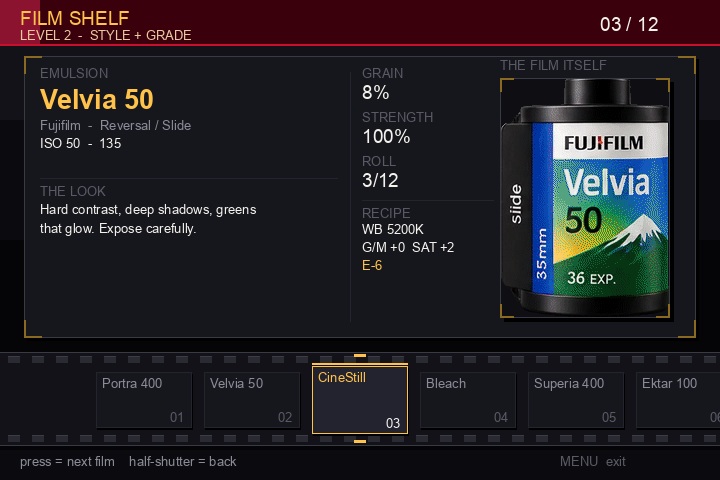
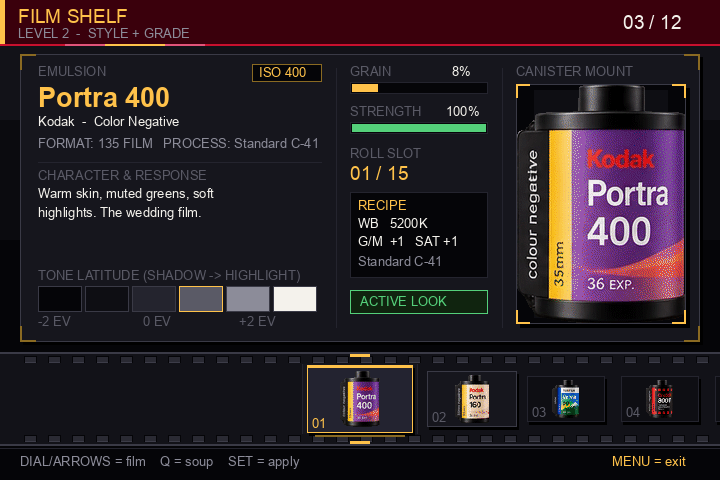
README: the real screens, and a GIF of the real glide
The promo mockups are gone. Every screen in this README is now rendered by the
module's own drawing code through fsg_fill/fsg_text, and the animation is
gui/fs_spring.h stepped for three slots of travel -- 23 frames at 30 ms, the
same clock the panel repaints on.

New sections cover the twelve-wedge colour creator (saturation/hue/luminance per
wedge, WHEEL..WHEEL4 slots, self-contained .fs), the FX/tone/WB screens, 65:24
XPan, and a Fuji recipe field by field with the ranges Fuji uses and the three
fields that are deliberately absent.

diff --git a/README.md b/README.md
@@ -1,6 +1,6 @@
 # Film Sim — Magic Lantern film stocks for the Canon EOS 6D
 
-![A frame shot with Kodak Portra 400 applied at the shutter, 65:24 XPan](docs/img/hero.jpg)
+![A frame through the shipped Kodak Portra 400 recipe, framed 65:24 XPan](docs/img/hero.jpg)
 
 A Magic Lantern module that puts a film stock's colour into the JPEG the camera
 writes, at the shutter, without developing the CR2 afterwards. 33 recipes —
@@ -39,6 +39,124 @@ Measured on the 6D (1.1.6), 5472×3648 frames:
 `SET` moves to the next stock, `Q` goes back, and the strip scrolls. The canister
 artwork is parsed from `ML/data/FILMCAN.DAT` by the same code the host preview
 uses, so what the LCD shows is what the preview renders.
+
+The glide is a spring, not an ease — position and velocity in fixed point,
+integrated in 8 ms sub-steps on the same 30 ms clock the panel repaints on, so a
+late frame cannot fling the strip
+([`gui/fs_spring.h`](magiclantern/modules/film_sim/gui/fs_spring.h)). The
+animation below is that integrator stepped for three slots of travel, one frame
+per tick, drawn by the camera's own strip drawer:
+
+![The strip gliding three stocks, 23 frames at 30 ms](docs/img/shelf_glide.gif)
+
+## The screens
+
+Every screen in this README is drawn by the module's own drawing code
+([`gui/fsg.c`](magiclantern/modules/film_sim/gui/fsg.c),
+[`fsg_creator.c`](magiclantern/modules/film_sim/gui/fsg_creator.c),
+[`fsg_wb.c`](magiclantern/modules/film_sim/gui/fsg_wb.c)) on the desktop, through
+the same two primitives the camera uses: `fsg_fill` and `fsg_text`, implemented
+with `bmp_*` on the panel and into an RGB buffer on a Mac. There is no mockup
+layer, so a row in the wrong place here is a row in the wrong place on the LCD.
+The palette is eight-bit indices — 48 fills for the wheel alone — because that is
+what the panel has:
+
+```sh
+# the shelf and the darkroom
+gcc -O1 -Imagiclantern/modules/film_sim \
+    magiclantern/modules/film_sim/tools/gui_preview/preview.c \
+    magiclantern/modules/film_sim/gui/fsg.c \
+    magiclantern/modules/film_sim/gui/fsg_host.c \
+    magiclantern/modules/film_sim/gui/fsg_dat.c \
+    -o /tmp/fsg_preview -lm
+/tmp/fsg_preview tools/florin_filmroll_1.1/FilmRoll-6D-beta11/ML/data/FILMCAN.DAT
+
+# the creator and the WB screens
+gcc -O1 -Imagiclantern/modules/film_sim \
+    magiclantern/modules/film_sim/tools/gui_preview/creator_preview.c \
+    magiclantern/modules/film_sim/gui/fsg.c \
+    magiclantern/modules/film_sim/gui/fsg_host.c \
+    magiclantern/modules/film_sim/gui/fsg_dat.c \
+    magiclantern/modules/film_sim/gui/fsg_creator.c \
+    magiclantern/modules/film_sim/gui/fsg_wb.c \
+    -o /tmp/fsg_creator -lm
+/tmp/fsg_creator edited
+
+python3 magiclantern/modules/film_sim/tools/gui_preview/render.py   # -> PNG
+python3 magiclantern/modules/film_sim/tools/gui_preview/render.py \
+    --gif /tmp/shelf_glide.gif $(ls /tmp/fsg_anim*.ppm | sed 's|/tmp/fsg_||;s|\.ppm||')
+```
+
+### Colour custom: twelve wedges, in the panel's own palette
+
+![The 12-wedge colour creator, blue wedge at 160 % saturation](docs/img/creator.png)
+
+Twelve wedges, not six axes: each one carries **saturation** (0–200 %), **hue
+rotation** (±180°) and **luminance** (0–200 %), so a wedge can be lifted without
+moving its neighbour. The needle marks the wedge under edit and the ring runs
+through every wedge's current value, which is why a saved look reads as one
+shape rather than as a list of numbers. The fill is 12 wedges × 4 radial bands =
+48 palette entries — the panel is eight-bit indices, so a gradient has to be
+dithered by hand — and a full repaint of this screen costs 0.74 ms on a Mac,
+which is why the camera only redraws the wheel when a value moves.
+
+A saved wheel is a **complete recipe, not a delta** — `fs_creator_write()` emits
+its own curve, twelve `HUE_SAT`, twelve `HUE_ROT` and twelve `HUE_LUM` values,
+with `WB AS_SHOT`, so it loads and grades exactly like a stock. It lands in
+`ML/FILM/WHEEL.fs` (or `WHEEL2`..`WHEEL4` for the other three slots) and
+`User Look ▸ Apply WHEEL2` makes it the active look.
+
+![The same creator after the edit is saved into a slot](docs/img/creator_saved.png)
+
+### The FX and tone screens
+
+![Grain, halation, colour chrome and FX blue on one screen](docs/img/creator_fx.png)
+
+![The tone screen](docs/img/creator_tone.png)
+
+### White balance shift: pushed to the camera, then read back
+
+![Fuji's Red/Blue axes mapped onto Canon's B/A and G/M, green once the camera agreed](docs/img/wb_shift.png)
+
+Fuji's recipe numbers are Red and Blue; Canon's are B/A and G/M. The screen shows
+both, and it only turns green when the camera's own property reports the value
+that was asked for — `prop_request_change()` is fire-and-forget, so "IN CAMERA"
+means a read-back, not a message sent.
+
+### The darkroom
+
+![The darkroom developing a frame](docs/img/develop.png)
+
+## 65:24 XPan
+
+`Aspect ▸ 65:24 XPan` frames the panel at 2.708:1 and Develop writes a real
+5472×2020 JPEG — the rows outside the window are never encoded, so the file is
+smaller and the grain is right. Capture is the honest exception: Canon decides
+the dimensions of the JPEG it writes, so at the shutter the framing is burned in
+as bars (see [Limits](#limits--stated-plainly)).
+
+## A Fuji recipe, field for field
+
+A recipe on a Fuji body is not a screen — it is a bundle of I.Q. menu items saved
+into a C1..C7 slot. Here that bundle is a `.fs`, and the ranges are Fuji's own:
+
+| field | range | what it does |
+|---|---|---|
+| TONE CURVE highlight | −2 … +4 | compresses (−) or lifts (+) the top end |
+| TONE CURVE shadow | −2 … +4 | deepens (−) or lifts (+) the bottom end |
+| COLOR | −4 … +4 | saturation |
+| COLOR CHROME EFFECT | off / weak / strong | deeper gradation in highly saturated colours |
+| COLOR CHROME FX BLUE | off / weak / strong | the same, restricted to blue |
+| GRAIN EFFECT | off / weak / strong | |
+| GRAIN SIZE | small / large | |
+| WB shift R / B | −9 … +9 | pushed to the camera, shown not baked into the `.fs` |
+
+Three fields a published recipe carries are **not** offered, because they cannot
+be honoured here: `DYNAMIC RANGE` (raises ISO and pulls highlights before
+digitising; on an 8-bit JPEG that headroom is already gone), `CLARITY` (needs a
+graded-luma ring — designed, measured, reverted) and `HIGH ISO NR` (Canon's NR
+lives in the picture style and is not driven yet). A knob that does nothing is
+worse than an absent row.
 
 ## Before and after
 
